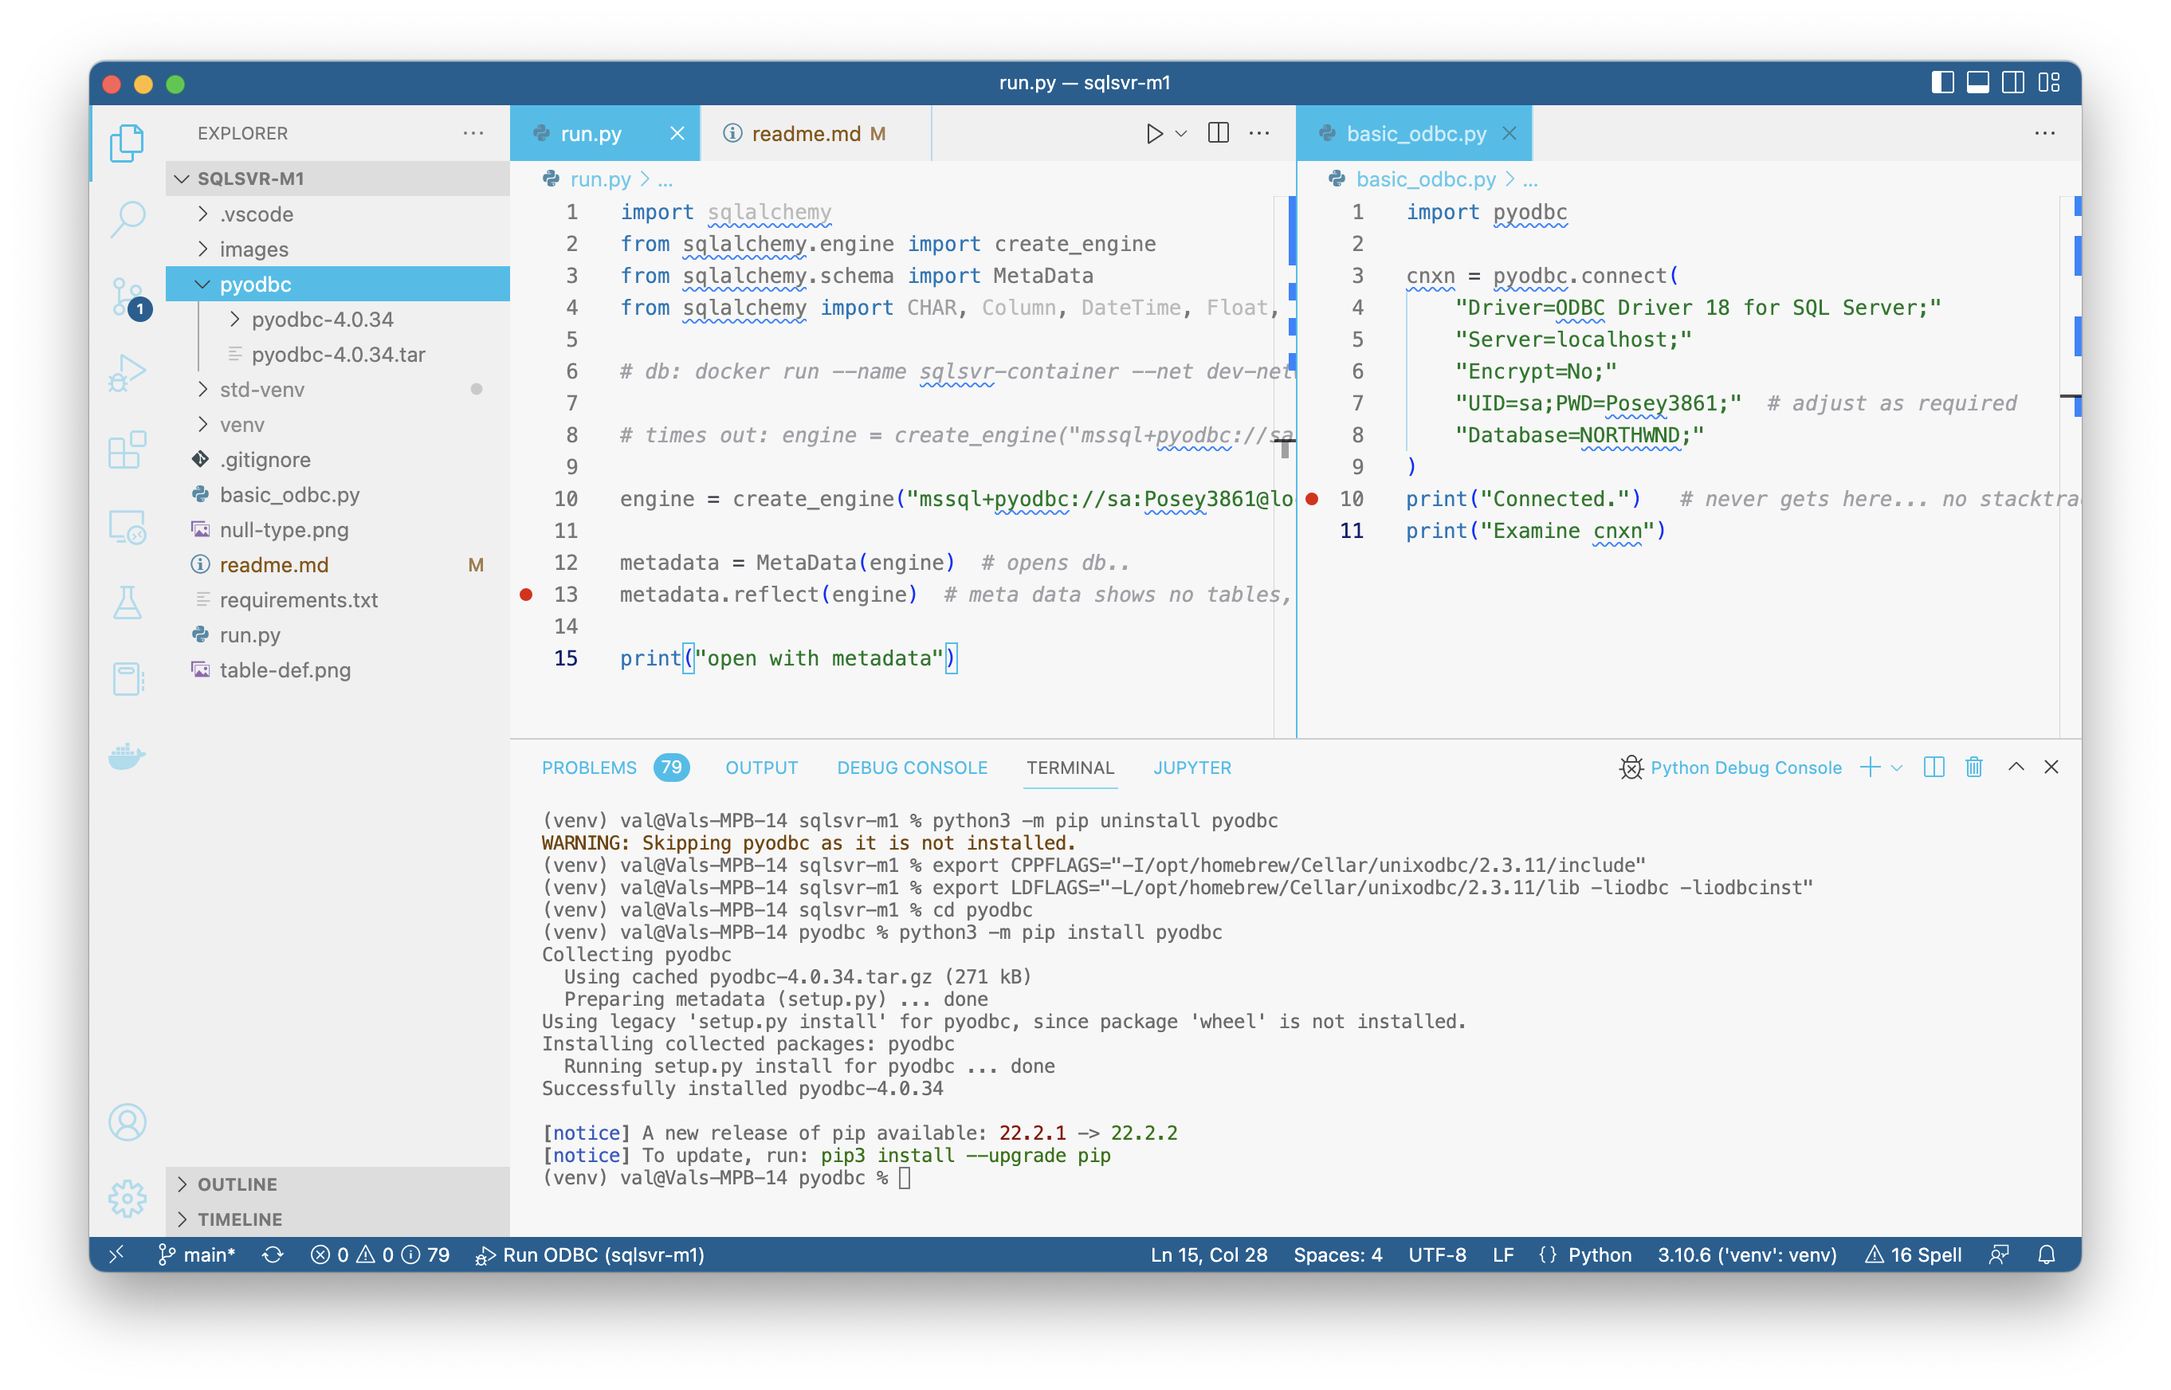
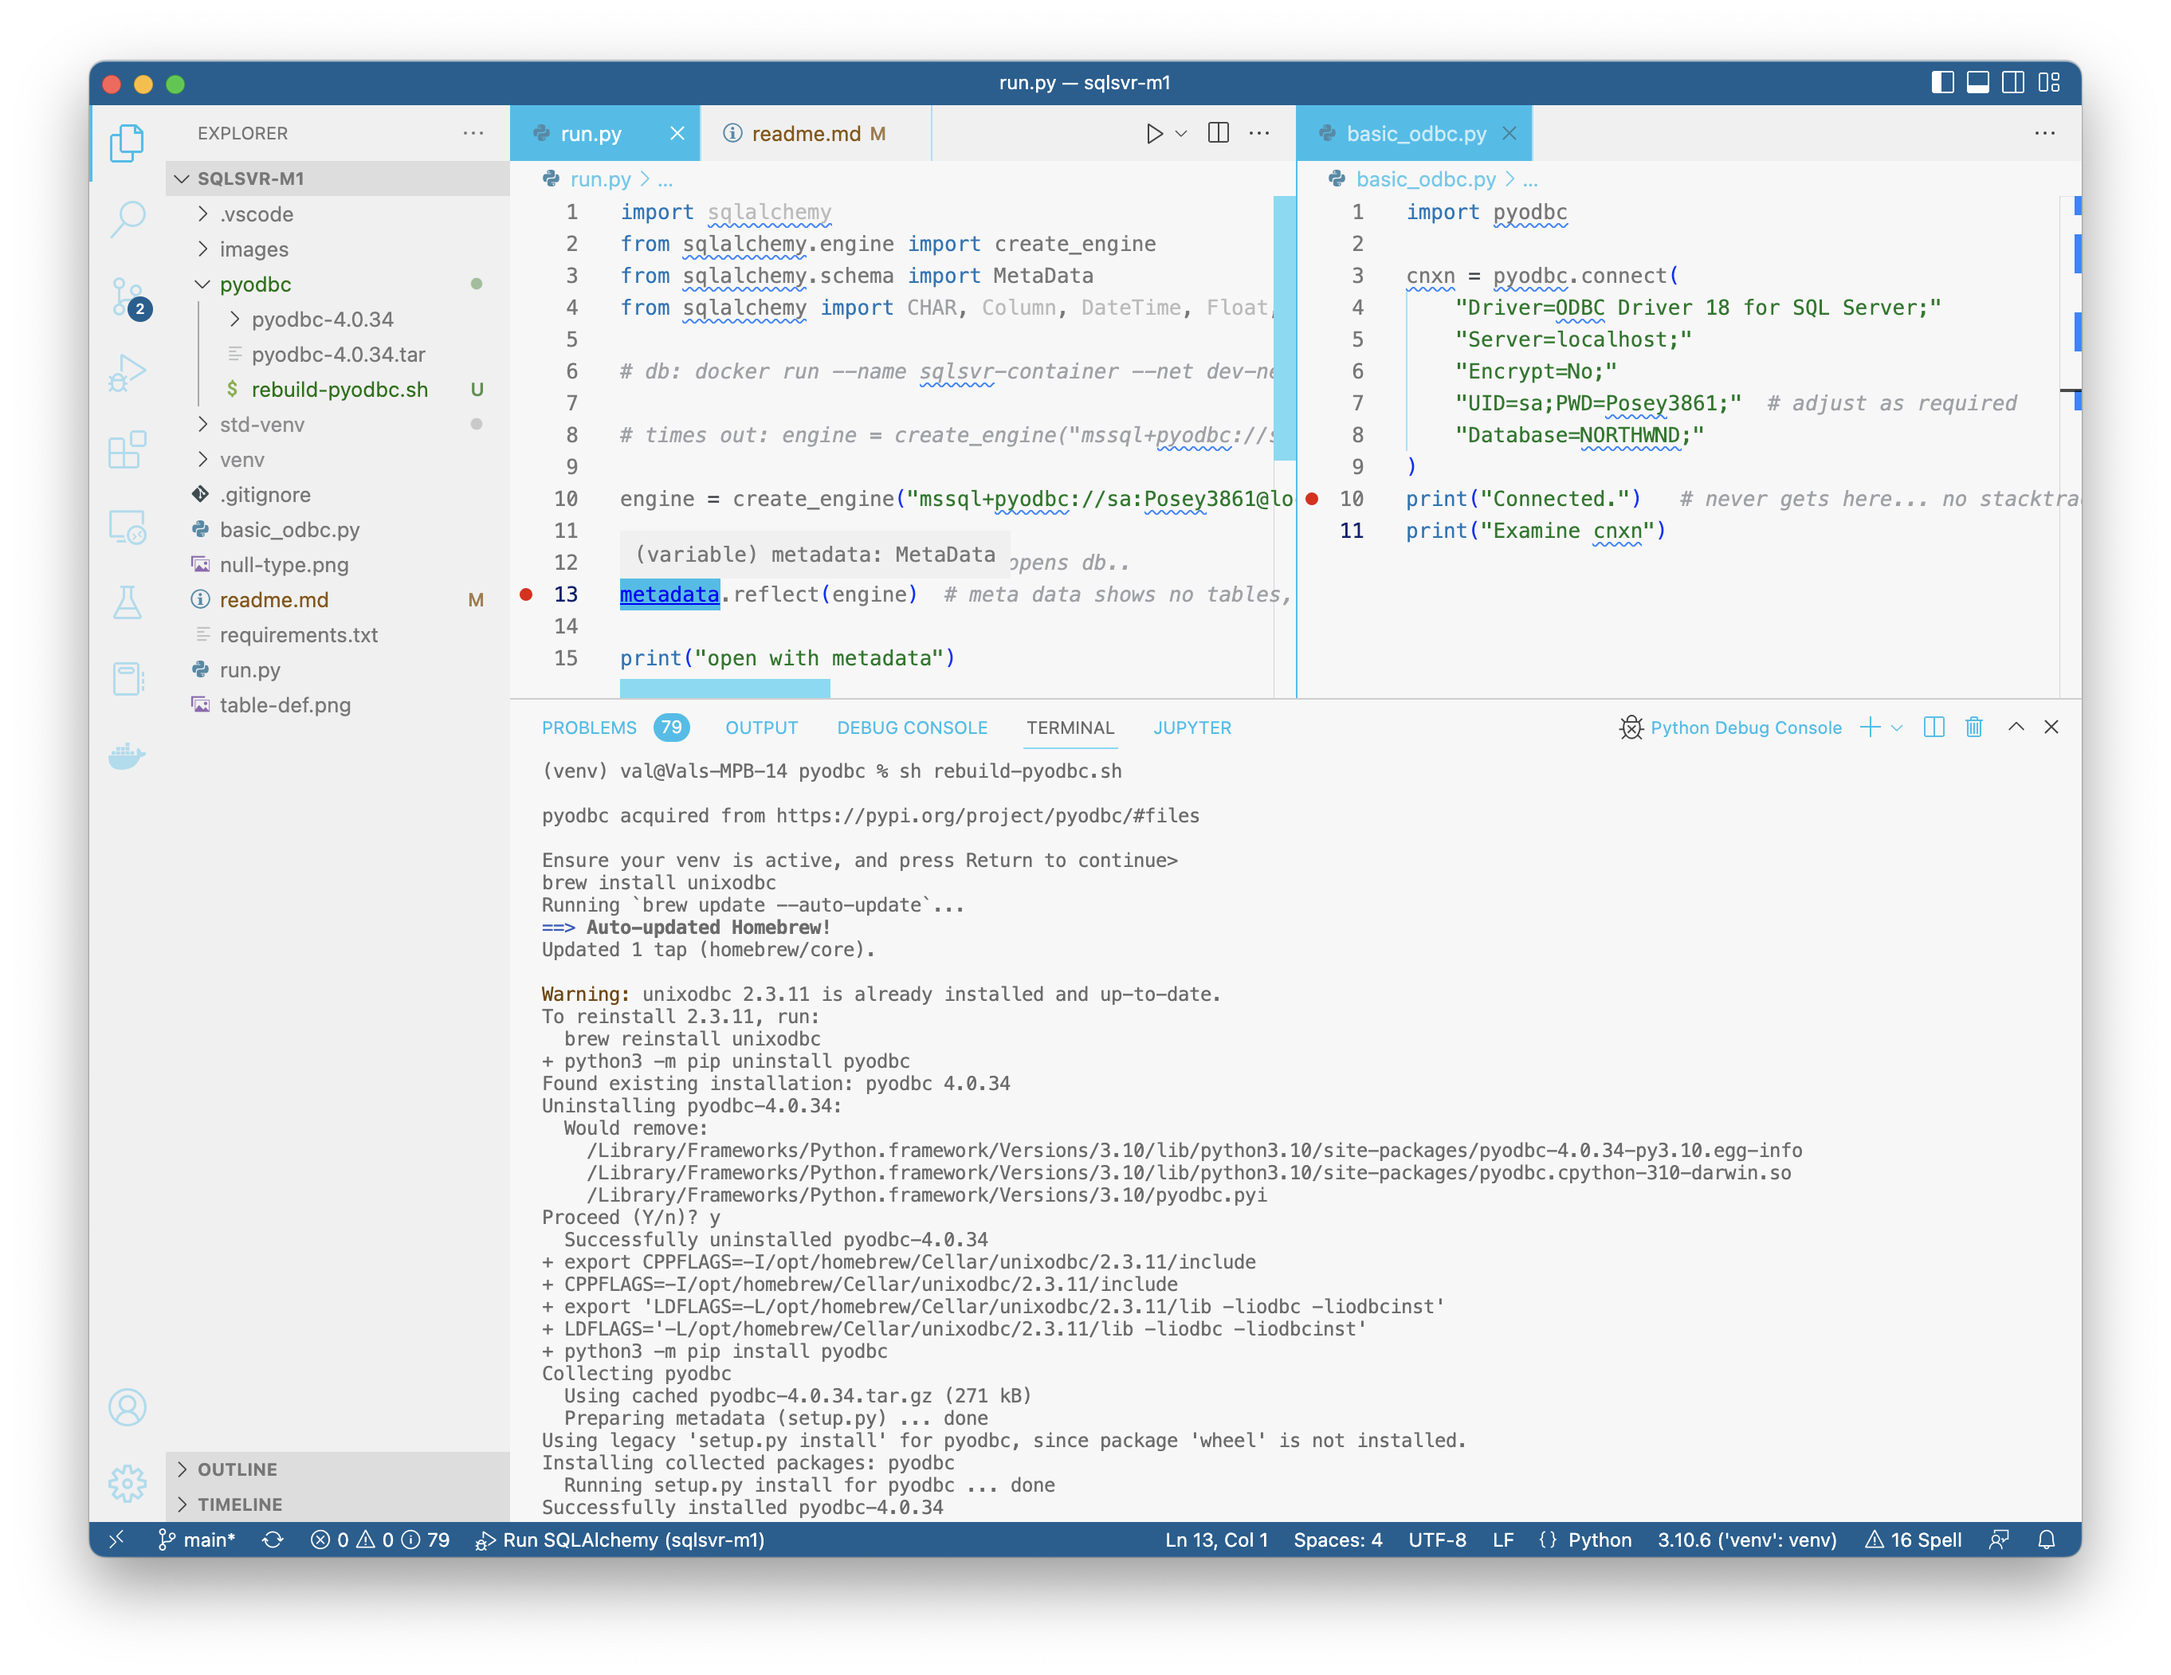
rebuild-pyodbc

diff --git a/readme.md b/readme.md
@@ -2,7 +2,7 @@ This documents 3 procedures for testing SqlServer access on an M1 mac.
 
 &nbsp;
 
-# I. Standard Procedure
+# I. "Standard" Procedure
 
 I have:
 
@@ -65,7 +65,7 @@ The issue is [logged here](https://github.com/sqlalchemy/sqlalchemy/discussions/
 
 # II. "Ed King" ODBC Driver procedure
 
-Using [this article (many thanks!!)](https://whodeenie.medium.com/installing-pyodbc-and-unixodbc-for-apple-silicon-8e238ed7f216), we use the following procedure/
+Using [this article (many thanks!!)](https://whodeenie.medium.com/installing-pyodbc-and-unixodbc-for-apple-silicon-8e238ed7f216), we used this procedure:
 
 ### 1. Download `pyodbc-4.0.32.tar.gz` into `project/pyodbc`
 
@@ -74,63 +74,18 @@ I had to unpack it (perhaps due to unfamiliarity with tar files):
 <figure><img src="https://github.com/valhuber/sqlsvr-m1/blob/main/images/pyodbc.png?raw=true"></figure>
 
 
-### 2. Verify `unixodbc`
+### 2. Brew install `unixodbc` and rebuild `pyodbc`
 
-```
-val@Vals-MPB-14 ~ %  brew install unixodbc
-Running `brew update --auto-update`...
-==> Auto-updated Homebrew!
-Updated 1 tap (homebrew/core).
-==> New Formulae
-curlcpp
+See the screen shot above.
 
-Warning: unixodbc 2.3.11 is already installed and up-to-date.
-```
-
-It's here:
+`Unixodbc` is here:
 
 <figure><img src="https://github.com/valhuber/sqlsvr-m1/blob/main/images/unixodbc.png?raw=true"></figure>
 
 
-### 3. Rebuild `pyodbc'
-
-And alter the provided rebuild script:
-
-```
-python3 -m pip uninstall pyodbc
-export CPPFLAGS="-I/opt/homebrew/Cellar/unixodbc/2.3.11/include"
-export LDFLAGS="-L/opt/homebrew/Cellar/unixodbc/2.3.11/lib -liodbc -liodbcinst"
-echo "path/to/pyodbc-4.0.32.tar.gz"
-cd pyodbc
-echo "pip install pyodbc-4.0.32.tar.gz failed -- no gz?"
-python3 -m pip install pyodbc
-cd ..
-```
-
-and then run __in the venv:__
-
-```
-(venv) val@Vals-MPB-14 sqlsvr-m1 % python3 -m pip uninstall pyodbc
-WARNING: Skipping pyodbc as it is not installed.
-(venv) val@Vals-MPB-14 sqlsvr-m1 % export CPPFLAGS="-I/opt/homebrew/Cellar/unixodbc/2.3.11/include"
-(venv) val@Vals-MPB-14 sqlsvr-m1 % export LDFLAGS="-L/opt/homebrew/Cellar/unixodbc/2.3.11/lib -liodbc -liodbcinst"
-(venv) val@Vals-MPB-14 sqlsvr-m1 % cd pyodbc
-(venv) val@Vals-MPB-14 pyodbc % python3 -m pip install pyodbc
-Collecting pyodbc
-  Using cached pyodbc-4.0.34.tar.gz (271 kB)
-  Preparing metadata (setup.py) ... done
-Using legacy 'setup.py install' for pyodbc, since package 'wheel' is not installed.
-Installing collected packages: pyodbc
-  Running setup.py install for pyodbc ... done
-Successfully installed pyodbc-4.0.34
-
-[notice] A new release of pip available: 22.2.1 -> 22.2.2
-[notice] To update, run: pip3 install --upgrade pip
-(venv) val@Vals-MPB-14 pyodbc % ```
-
 ### Opens DB, but no tables, reflect fails
 
-`run.py` does open the database, but no tables and reflect fails
+`run.py` does open the database, but no tables and reflect fails:
 
 <figure><img src="https://github.com/valhuber/sqlsvr-m1/blob/main/images/no-tables.png?raw=true"></figure>
 
